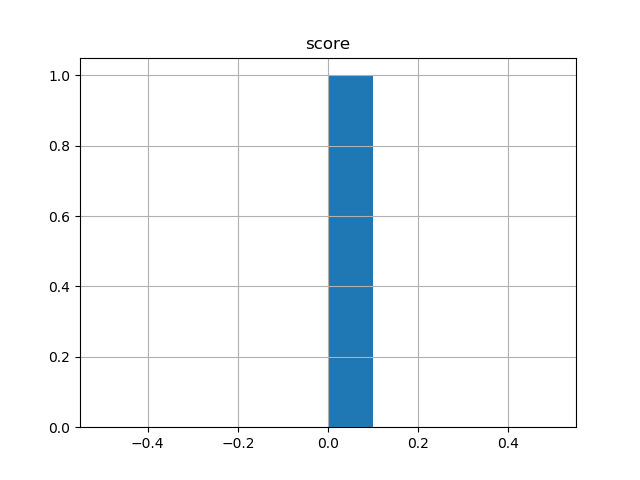
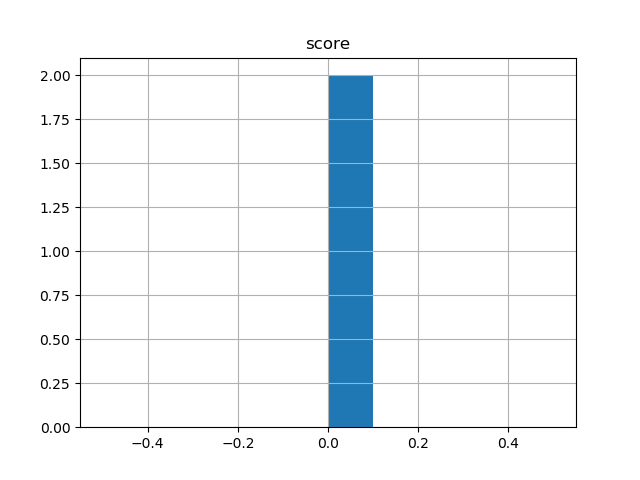
greedy inc bug

diff --git a/code/algorithms/greedy.py b/code/algorithms/greedy.py
@@ -22,27 +22,25 @@ def greedy_housebuilder(max_houses,amount_maison,amount_bungalow,amount_sfh, nei
         for a in range(Borders().maxX):
             for b in range(Borders().maxY):
                 if i < amount_maison:
-                    house = House("maison", i)
+                    house = House("maison", i,a,b)
                     if location_checker(house, neighbourhood) == False:
                         while location_checker(house, neighbourhood) == False:
-                            house = House("maison", i)
-
+                            house = House("maison", i, a, b)
                 elif i < amount_bungalow + amount_maison:
-                    house= House("bungalow",i)
+                    house= House("bungalow",i, a, b)
                     if location_checker(house, neighbourhood) == False:
                         while location_checker(house, neighbourhood) == False:
-                            house = House("bungalow", i)
-
+                            house = House("bungalow", i, a, b)
                 else:
-                    house = House("sfh",i)
+                    house = House("sfh",i,a,b)
                     if location_checker(house, neighbourhood) == False:
                         while location_checker(house, neighbourhood) == False:
-                            house = House("sfh", i)
-
+                            house = House("sfh", i,a,b)
                 score = scorecalculator(neighbourhood)
                 if score > highest_score:
                     highest_score = score
-                    neighbourhood.append(house)
+                    best_house = house
+        neighbourhood.append(house)
                 
     score = scorecalculator(neighbourhood)
     return neighbourhood, score
@@ -72,6 +70,8 @@ def greedy_algorithm(iterations, water_layout, max_houses):
     
     # save the information from the iteration
     df_greedy = pd.DataFrame(table, columns = ["iteration", "max_houses","score"]).set_index("iteration")
+    print(df_greedy)
+    '''
     df_greedy.to_csv("results/"+ str(iterations)+"-"+str(max_houses)+"-greedy.csv")
     
     # make a histogram of the scores from all the neighbourhoods made through the iterations
@@ -81,3 +81,4 @@ def greedy_algorithm(iterations, water_layout, max_houses):
     
     # make a visualisation of the best random neighbourhood and save it
     visualise(best, highest_score, "bestgreedy")
+    '''
